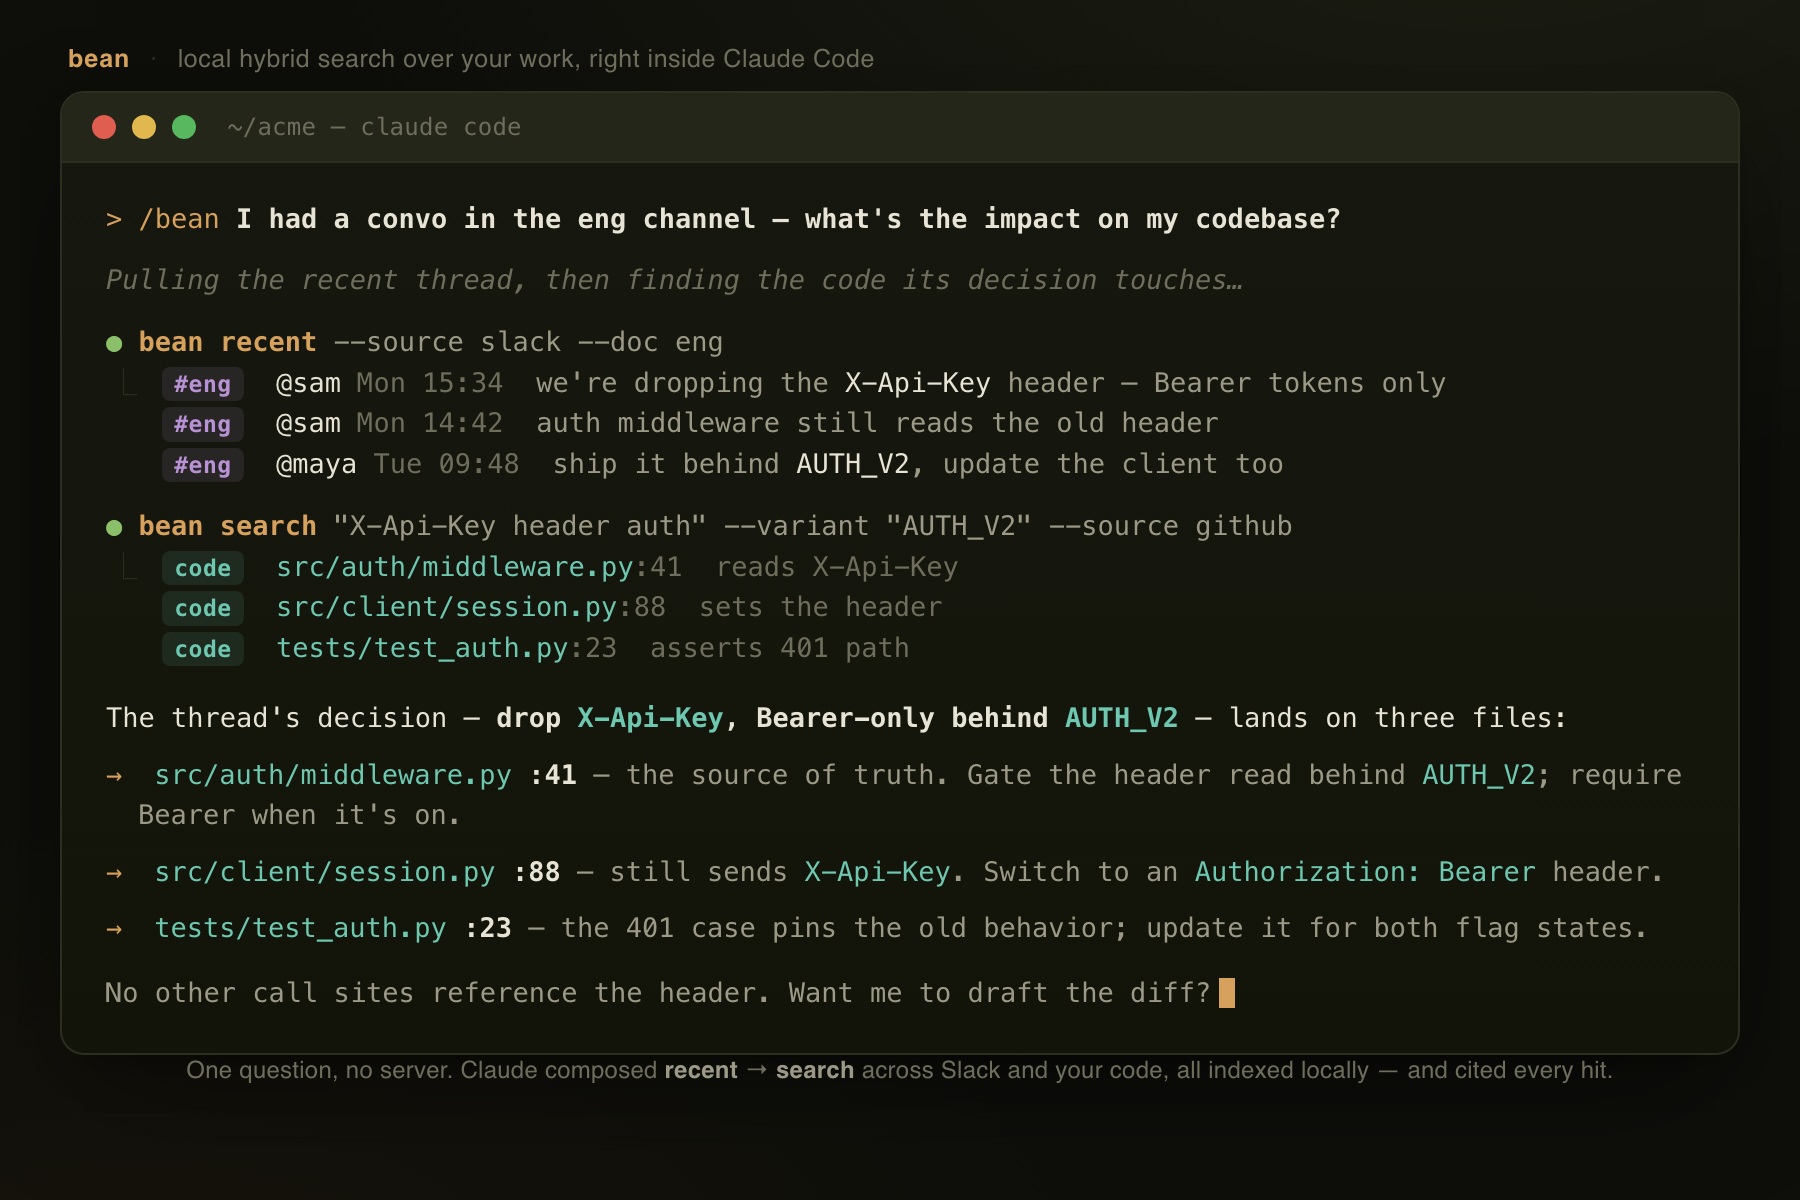
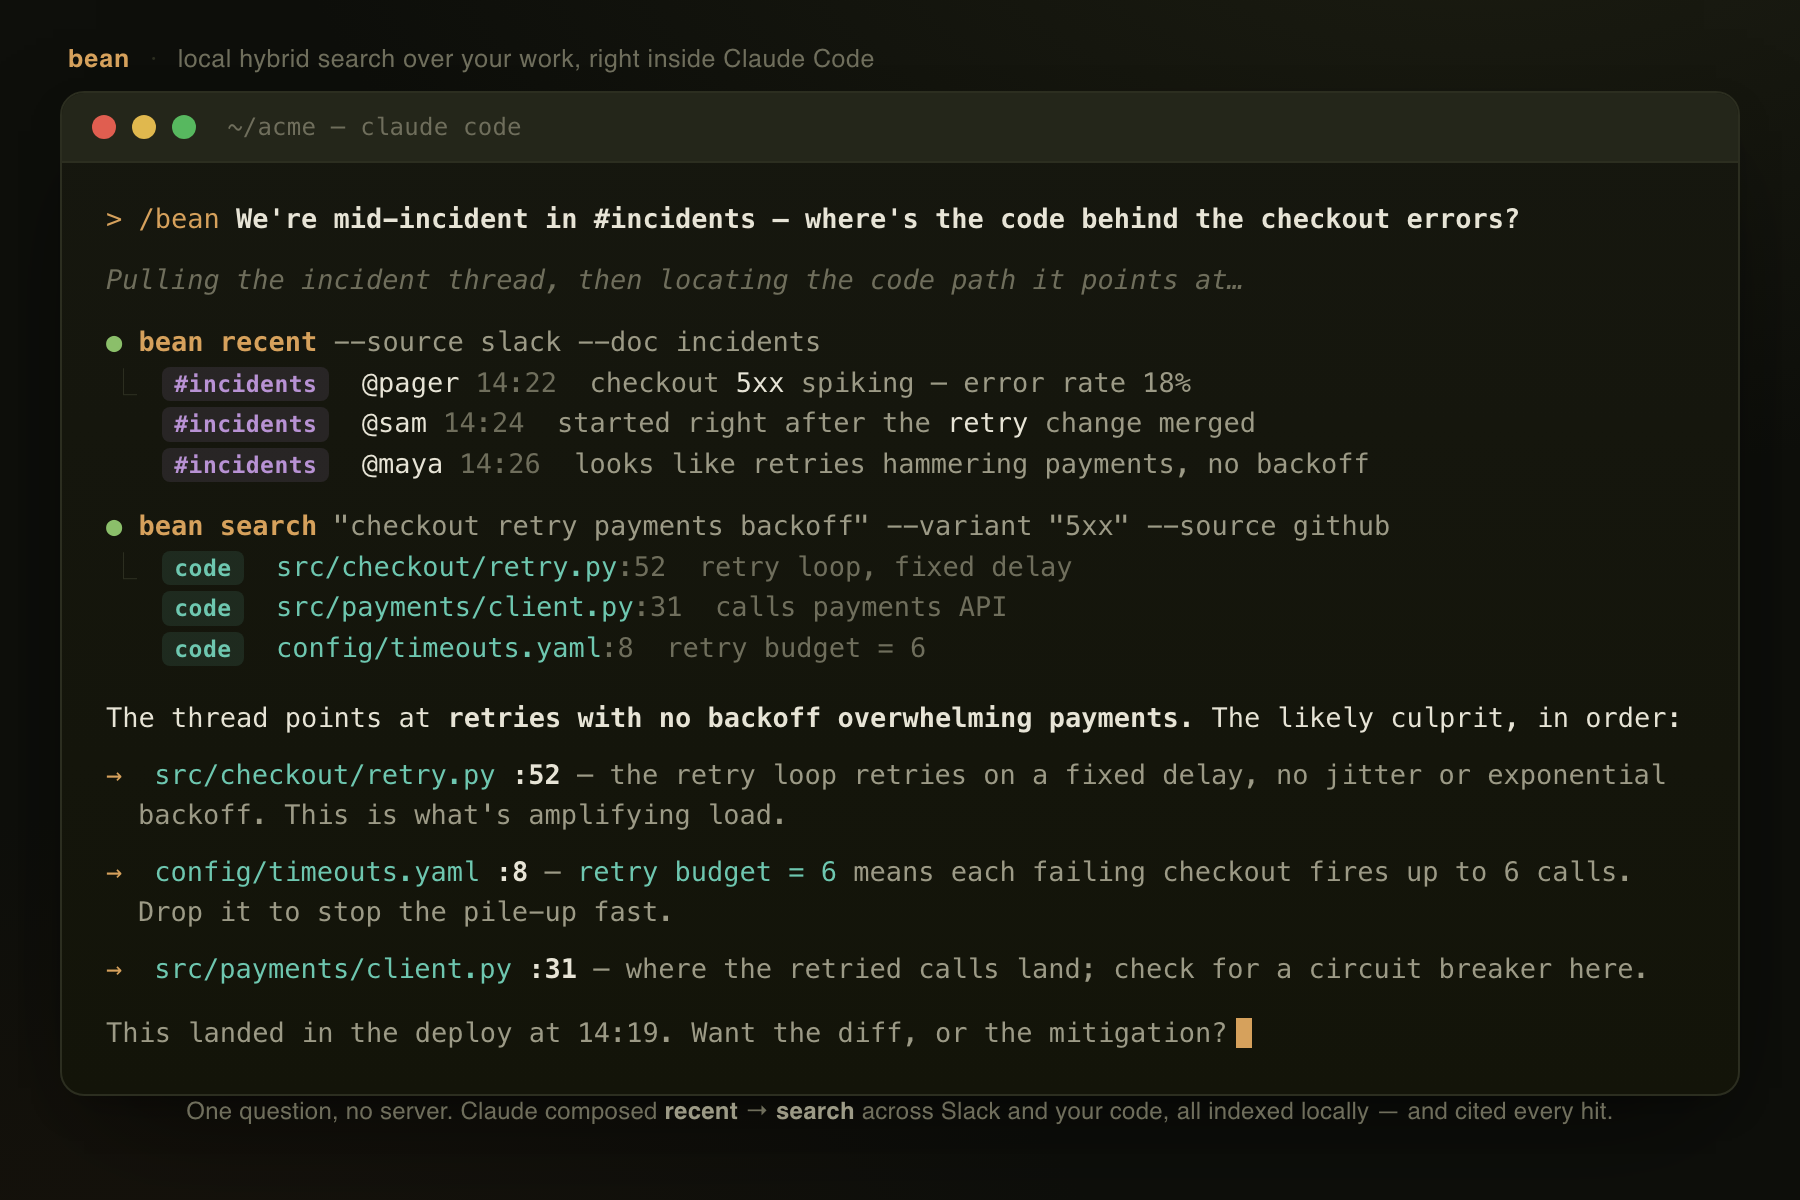
docs: reframe hero screenshot as incident-response triage

diff --git a/README.md b/README.md
@@ -7,7 +7,7 @@ You already pay for a Claude plan, so why pay again for API calls? Or hand your 
 LLM-wrapper SaaS? Not ready to drop $100k on search? bean has no server: it pulls with your own
 credentials, embeds on your machine, and stores everything locally.
 
-![bean in Claude Code — one question composes recent + search across Slack and your codebase, and cites every hit](assets/demo.png)
+![bean in Claude Code — an incident thread in Slack, traced to the culprit code, with every hit cited](assets/demo.png)
 
 ## Install
 